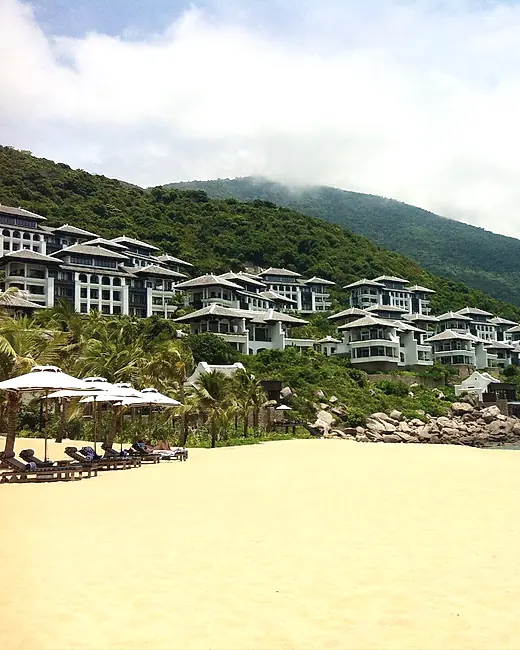
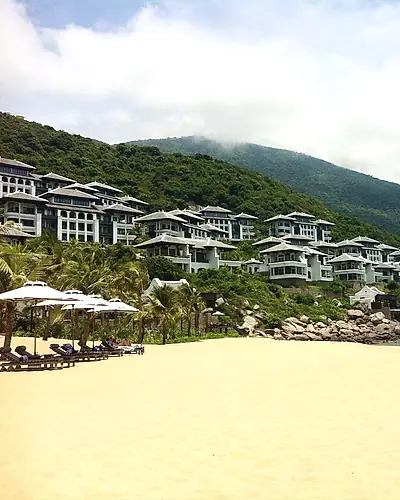
perf: giảm ba phần tư số ảnh nền và phóng to lõi vòng tròn
Trang giật khi cuộn vì lớp nền quá nặng: hai lớp chồng nhau, mỗi lớp bảy cột
mười ảnh, tổng 140 thẻ ảnh cùng lúc, kèm mười bốn cột khai báo will-change nên
mỗi cột thành một lớp đồ hoạ riêng.

Nay chỉ còn một lớp nền cố định — lớp phủ ở đầu trang gần như trùng lớp toàn
trang nên bỏ đi không mất gì về mặt nhìn. Năm cột tám ảnh còn 40 thẻ, ảnh cắt
đúng cỡ hiển thị 400x500 thay vì 520x650, tổng dung lượng từ 850KB xuống 482KB.
Bỏ will-change vì hoạt ảnh transform tự lên lớp riêng khi chạy, và thêm contain
để lớp nền không kéo phần còn lại của trang vẽ lại theo.

Lõi vòng tròn phóng từ 354 lên 421 điểm ảnh, cỡ chữ tăng theo; bán kính các
nhánh nới ra và nhãn nhánh sáu rút gọn để không đè vào lõi.

Changed region(s): [[0.0, 0.3, 1.0, 0.75], [0.18, 0.27, 0.21, 0.3], [0.12, 0.24, 0.15, 0.27]]

diff --git a/src/styles.css b/src/styles.css
@@ -164,11 +164,15 @@ footer {
 
 .backdrop {
   --bd-gap: clamp(10px, 1.1vw, 18px);
-  position: absolute;
+  position: fixed;
   inset: 0;
+  z-index: 0;
   overflow: hidden;
   pointer-events: none;
   user-select: none;
+  opacity: 0.6;
+  /* khoanh vùng vẽ lại, không để lớp nền kéo theo phần còn lại của trang */
+  contain: strict;
 }
 
 /* mặt phẳng ảnh xoay chéo, phóng rộng hơn khung nhìn để không hở góc */
@@ -185,18 +189,6 @@ footer {
   backface-visibility: hidden;
 }
 
-.backdrop-page {
-  position: fixed;
-  z-index: 0;
-  opacity: 0.55;
-}
-
-.backdrop-hero {
-  opacity: 0.56;
-  -webkit-mask-image: linear-gradient(180deg, rgba(0, 0, 0, 0.5) 0%, #000 30%, rgba(0, 0, 0, 0.2) 78%, transparent 100%);
-  mask-image: linear-gradient(180deg, rgba(0, 0, 0, 0.5) 0%, #000 30%, rgba(0, 0, 0, 0.2) 78%, transparent 100%);
-}
-
 .backdrop-col {
   flex: 1 1 0;
   min-width: 0;
@@ -207,7 +199,6 @@ footer {
   flex-direction: column;
   gap: var(--bd-gap);
   animation: backdrop-drift var(--dur, 80s) linear infinite;
-  will-change: transform;
 }
 
 .backdrop-col:nth-child(even) .backdrop-track {
@@ -231,7 +222,7 @@ footer {
 }
 
 @media (max-width: 1100px) {
-  .backdrop-col:nth-child(n + 6) {
+  .backdrop-col:nth-child(n + 5) {
     display: none;
   }
 }
@@ -242,12 +233,8 @@ footer {
   }
 
   /* màn hẹp thì mỗi ô ảnh to hơn hẳn, phải hạ xuống cho chữ còn đọc được */
-  .backdrop-page {
-    opacity: 0.4;
-  }
-
-  .backdrop-hero {
-    opacity: 0.52;
+  .backdrop {
+    opacity: 0.42;
   }
 }
 
@@ -1260,7 +1247,7 @@ html.snap-stage {
 .orbit {
   position: relative;
   width: 100%;
-  max-width: 680px;
+  max-width: 780px;
   margin: 0 auto;
   aspect-ratio: 1;
 }
@@ -1297,7 +1284,7 @@ html.snap-stage {
   left: 50%;
   top: 50%;
   transform: translate(-50%, -50%);
-  width: 52%;
+  width: 54%;
   aspect-ratio: 1;
   border-radius: 50%;
   background: linear-gradient(150deg, #ffffff 0%, var(--paper-2) 100%);
@@ -1307,13 +1294,13 @@ html.snap-stage {
   flex-direction: column;
   align-items: center;
   justify-content: center;
-  gap: 8px;
-  padding: 12% 13%;
+  gap: 9px;
+  padding: 11% 11.5%;
   text-align: center;
 }
 
 .orbit-core-tag {
-  font-size: 0.64rem;
+  font-size: 0.68rem;
   font-weight: 600;
   letter-spacing: 0.2em;
   text-transform: uppercase;
@@ -1321,20 +1308,20 @@ html.snap-stage {
 }
 
 .orbit-core h3 {
-  font-size: clamp(0.98rem, 1.35vw, 1.14rem);
+  font-size: clamp(1.05rem, 1.6vw, 1.3rem);
   line-height: 1.35;
   color: var(--ink);
 }
 
 .orbit-core p {
-  font-size: clamp(0.76rem, 1vw, 0.85rem);
-  line-height: 1.5;
+  font-size: clamp(0.84rem, 1.15vw, 0.95rem);
+  line-height: 1.55;
   color: var(--ink-3);
 }
 
 .orbit-core-meta {
   margin-top: 2px;
-  font-size: 0.6rem;
+  font-size: 0.64rem;
   letter-spacing: 0.14em;
   text-transform: uppercase;
   color: var(--ink-4);
@@ -1347,7 +1334,8 @@ html.snap-stage {
   display: inline-flex;
   align-items: center;
   gap: 9px;
-  padding: 9px 15px 9px 10px;
+  padding: 9px 16px 9px 10px;
+  max-width: 30%;
   border-radius: 999px;
   border: 1px solid var(--line-strong);
   background: rgba(255, 255, 255, 0.97);

diff --git a/src/components/Backdrop.tsx b/src/components/Backdrop.tsx
@@ -1,7 +1,7 @@
 import { photoCredits } from '../credits'
 
-const COLUMNS = 7
-const PER_COLUMN = 5
+const COLUMNS = 5
+const PER_COLUMN = 4
 
 const tiles = photoCredits.map((credit) => `/projects/${credit.file}`)
 
@@ -10,17 +10,20 @@ const columns = Array.from({ length: COLUMNS }, (_, column) =>
   Array.from({ length: PER_COLUMN }, (_, row) => tiles[(column * 3 + row * 2) % tiles.length]),
 )
 
-const DURATIONS = [104, 82, 118, 90, 72, 110, 86]
+const DURATIONS = [104, 82, 118, 90, 72]
 
 /**
  * Nền lưới dự án bất động sản Việt Nam, đặt chéo và trôi dọc rất chậm.
  *
- * Dùng CSS transform thay cho GIF: nhẹ hơn nhiều lần, không vỡ màu, co giãn
- * theo mọi kích thước màn hình và tự dừng khi người dùng bật "giảm chuyển động".
+ * Dùng CSS transform thay cho GIF: nhẹ hơn nhiều lần, không vỡ màu, co giãn theo
+ * mọi kích thước màn hình và tự dừng khi người dùng bật "giảm chuyển động".
+ *
+ * Số ảnh giữ ở mức thấp nhất còn đủ kín màn hình. Mỗi thẻ ảnh là một lớp phải
+ * ghép lại ở mỗi khung hình, nên thừa vài chục thẻ là thấy giật ngay khi cuộn.
  */
-export function Backdrop({ variant }: { variant: 'page' | 'hero' }) {
+export function Backdrop() {
   return (
-    <div className={`backdrop backdrop-${variant}`} aria-hidden="true">
+    <div className="backdrop" aria-hidden="true">
       <div className="backdrop-plane">
         {columns.map((column, index) => (
           <div className="backdrop-col" key={index} style={{ ['--dur' as string]: `${DURATIONS[index]}s` }}>
@@ -32,8 +35,9 @@ export function Backdrop({ variant }: { variant: 'page' | 'hero' }) {
                   alt=""
                   loading="lazy"
                   decoding="async"
-                  width={520}
-                  height={650}
+                  fetchPriority="low"
+                  width={400}
+                  height={500}
                 />
               ))}
             </div>

diff --git a/src/App.tsx b/src/App.tsx
@@ -70,7 +70,7 @@ const capabilities: Capability[] = [
     icon: <Layers />,
     index: '06',
     title: 'Quản Trị Thương Hiệu & Kho Tài Nguyên Số',
-    short: 'Thương hiệu & Kho số',
+    short: 'Thương hiệu',
     text: 'Quản trị bộ nhận diện, mạng xã hội và kho tài sản nội dung để giữ thông điệp nhất quán.',
     meta: 'Nhất quán ở mọi quy mô',
   },
@@ -102,7 +102,7 @@ function App() {
 
   return (
     <>
-      <Backdrop variant="page" />
+      <Backdrop />
       <Header menuOpen={menuOpen} setMenuOpen={setMenuOpen} contactUrl={contactUrl} stuck={stuck} />
 
       <main>
@@ -450,7 +450,6 @@ function Hero({ contactUrl }: { contactUrl: string }) {
 
   return (
     <section className="hero" id="dau-trang">
-      <Backdrop variant="hero" />
       <div className="hero-wash" aria-hidden="true" />
       <div className="hero-grid-lines" aria-hidden="true" />
 

diff --git a/src/components/CapabilityOrbit.tsx b/src/components/CapabilityOrbit.tsx
@@ -14,8 +14,8 @@ export type Capability = {
 const ANGLES = [-90, -30, 30, 90, 150, 210]
 
 /** Bán kính theo phần trăm khung, tách trục để nhánh trái phải không tràn mép. */
-const RX = 37
-const RY = 35
+const RX = 41
+const RY = 39
 
 const point = (angle: number) => {
   const rad = (angle * Math.PI) / 180

diff --git a/CREDITS.md b/CREDITS.md
@@ -15,14 +15,3 @@
 - **Vịnh Nha Trang** — Bùi Thụy Đào Nguyên · CC BY-SA 3.0 · [nguồn](https://commons.wikimedia.org/wiki/File:B%E1%BB%9D_bi%E1%BB%83n_%E1%BB%9F_Nha_Trang.jpg)
 - **Khu nghỉ dưỡng biển Phú Quốc** — Elmschrat · CC0 · [nguồn](https://commons.wikimedia.org/wiki/File:Phu_Quoc_beach_Saigon_Phu_Quoc_Resort_and_Spa_(2).jpg)
 - **Biển Mỹ Khê, Đà Nẵng** — Dragfyre · CC BY-SA 3.0 · [nguồn](https://commons.wikimedia.org/wiki/File:Palm_trees_beach_Da_Nang.jpg)
-
-## Logo nhà cung cấp mô hình
-
-Logo trong phần "Dùng đúng mô hình cho đúng công việc" là nhãn hiệu của các công ty tương ứng, dùng để nêu khả năng tích hợp. File lấy từ Wikimedia Commons, giữ nguyên hình dạng và màu:
-
-- **Claude** — [Claude AI symbol.svg](https://commons.wikimedia.org/wiki/File:Claude_AI_symbol.svg) · CC0
-- **GPT / OpenAI** — [OpenAI logo 2025 (symbol).svg](https://commons.wikimedia.org/wiki/File:OpenAI_logo_2025_(symbol).svg) · Public domain
-- **Gemini** — [Google Gemini icon 2025.svg](https://commons.wikimedia.org/wiki/File:Google_Gemini_icon_2025.svg) · Public domain
-- **Seedance / ByteDance** — [ByteDance logo English.svg](https://commons.wikimedia.org/wiki/File:ByteDance_logo_English.svg) · Public domain
-
-Kimi và mô hình chạy nội bộ không có logo dùng lại được nên dùng dấu hiệu tự vẽ.

diff --git a/README.md b/README.md
@@ -100,7 +100,9 @@ node tools/fetch-project-photos.mjs
 
 **Dùng ảnh dự án của chính doanh nghiệp:** bỏ file vào `public/projects/` theo tên `tile-01.webp` … `tile-NN.webp` (tỷ lệ 4:5, tông sáng), rồi cập nhật `src/credits.ts` cho khớp. Cách này chuẩn nhất vì hiện đúng dự án đang mở bán và không vướng bản quyền.
 
-Chỉnh độ đậm nhạt của nền: `.backdrop-page` và `.backdrop-hero` trong `src/styles.css`.
+Chỉnh độ đậm nhạt của nền: `.backdrop` trong `src/styles.css`.
+
+**Giữ số ảnh ở mức thấp nhất còn đủ kín màn hình.** Mỗi thẻ ảnh là một lớp phải ghép lại ở mỗi khung hình; bản đầu dùng hai lớp nền chồng nhau, 7 cột × 10 ảnh mỗi lớp là 140 thẻ, cuộn thấy giật rõ. Nay còn một lớp, 5 cột × 8 ảnh = 40 thẻ và ảnh cắt đúng cỡ hiển thị (400×500), tổng 482KB. Không đặt `will-change: transform` cho các cột: hoạt ảnh transform tự lên lớp riêng khi chạy, khai báo thêm chỉ tốn bộ nhớ đồ hoạ.
 
 ## Logo nhà cung cấp mô hình
 
